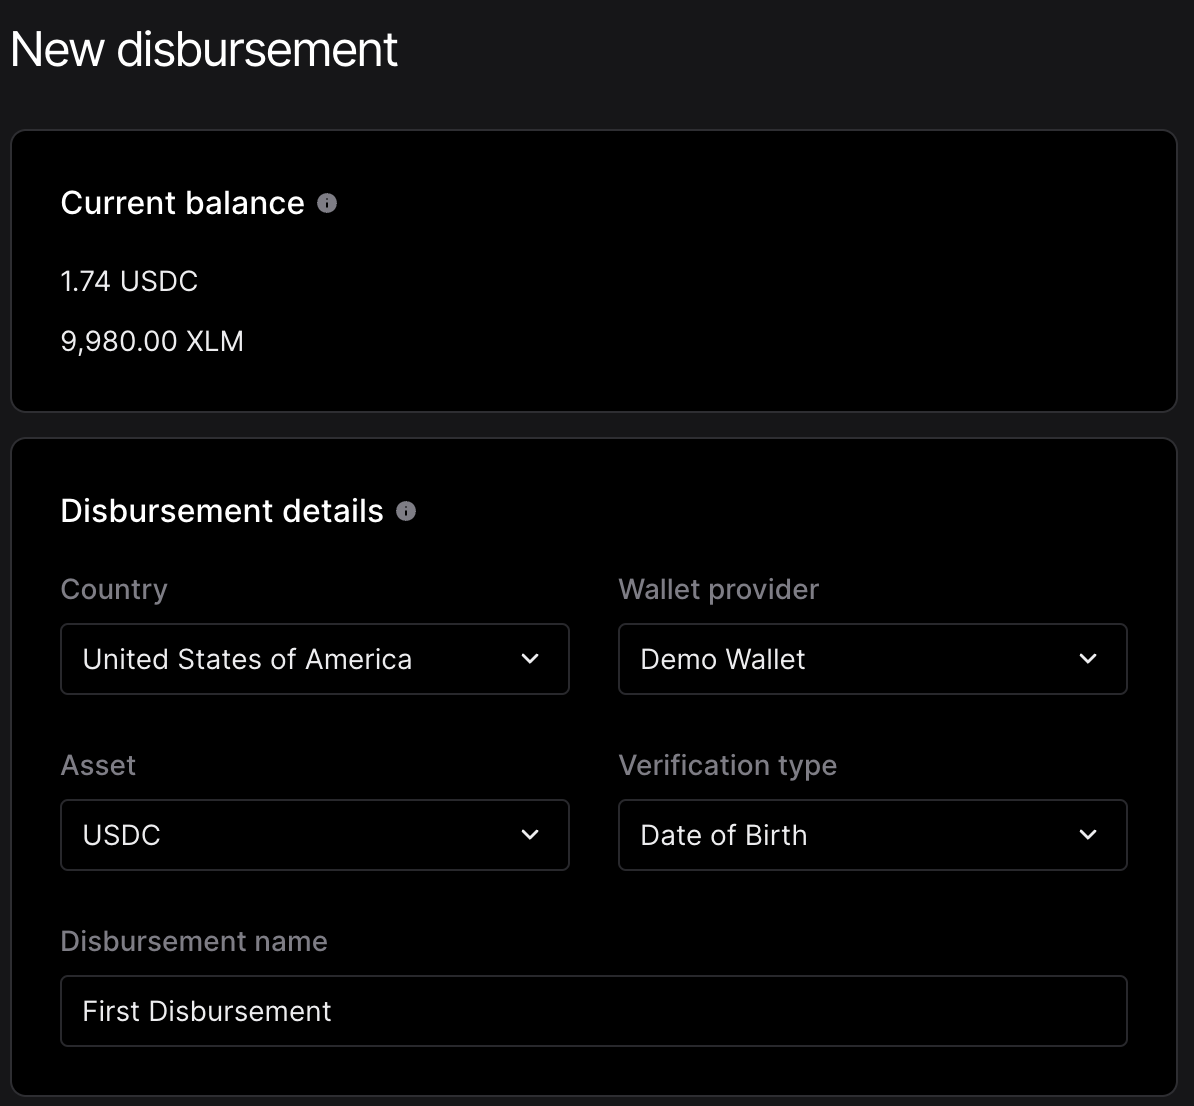
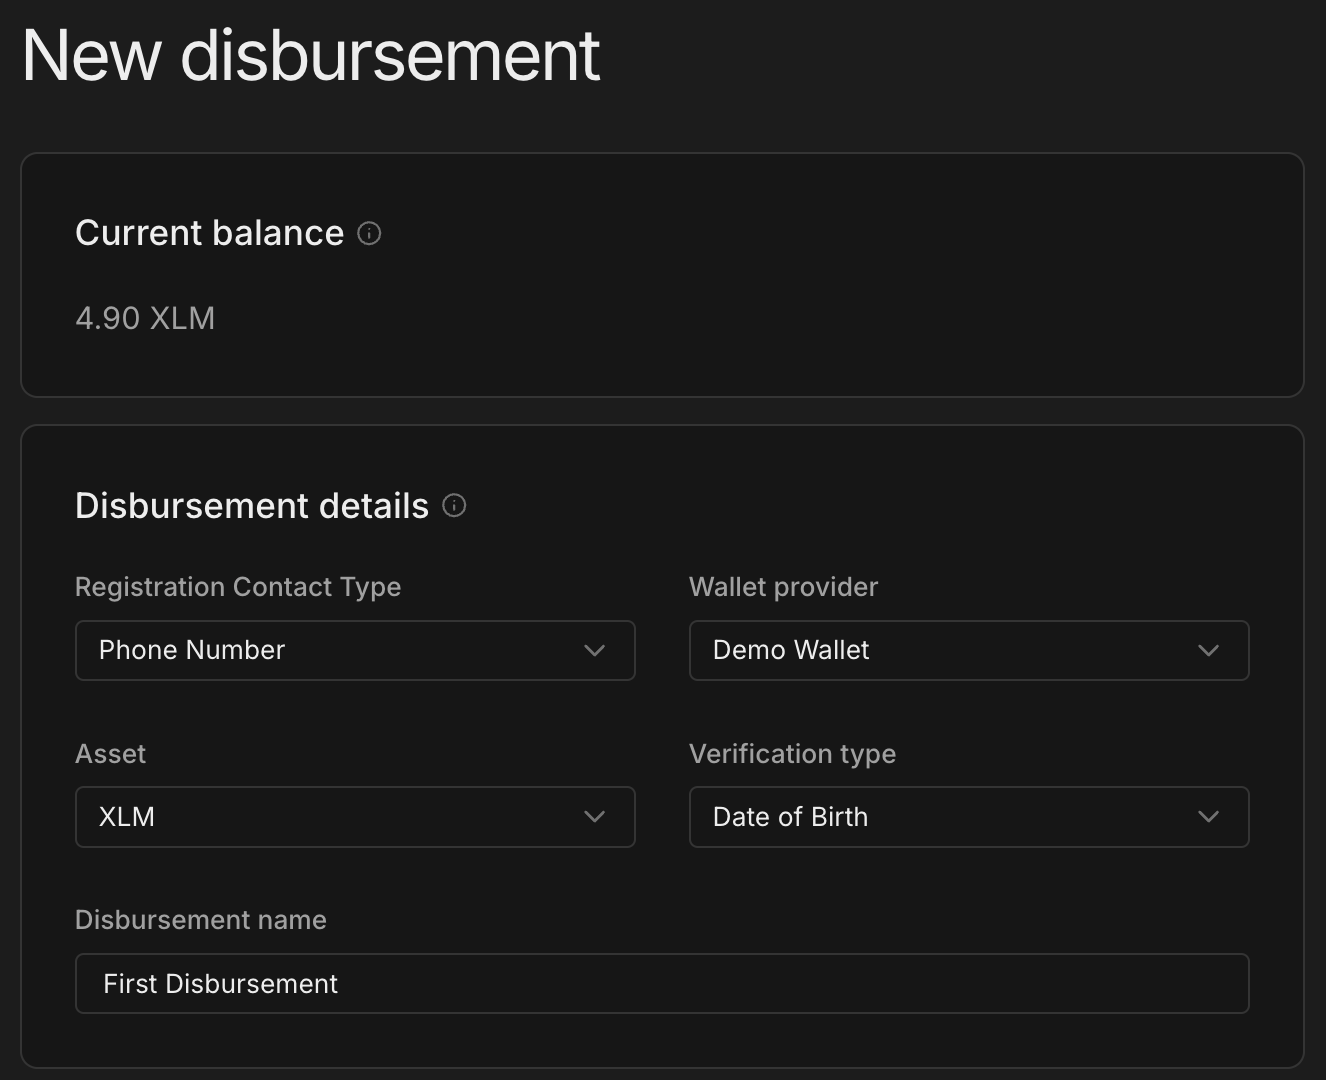
update readme to use XLM as example

diff --git a/dev/README.md b/dev/README.md
@@ -166,32 +166,27 @@ Now deposit the disbursement payment into the digital wallet using the SEP-24 de
    
    <img src="images/demo_wallet.png" alt="Demo Wallet" width="40%">
 
-5. Add `USDC` by clicking `Add from preset assets` link, selecting the `USDC` Checkbox and clicking `Override Home Domain`  to edit the home domain.
-Enter `http://bluecorp.stellar.local:8000` and click the `Confirm` button.
+5. Clicking `Add Home Domain`  to edit the home domain. Enter `http://bluecorp.stellar.local:8000` and click the `Override` button.
 
    <img src="images/demo_wallet1.png" alt="Demo Wallet" width="40%">
 
-6. Click the `Add trustline` link next to the `Select Action` dropdown.
-
-   <img src="images/demo_wallet2.png" alt="Add Trustline" width="40%">
-
-7. In the `USDC` `Select action` dropdown, select `SEP-24 Deposit` and then click the `Start` button.
+6. In the `Select action` dropdown, select `SEP-24 Deposit` and then click the `Start` button.
    
    <img src="images/sep24_deposit1.png" alt="SEP-24 Deposit" width="40%">
 
-8.  In the new window, enter the phone number `+13163955627` from the disbursement CSV payment.
+7.  In the new window, enter the phone number `+13163955627` from the disbursement CSV payment.
     
     <img src="images/sep24_deposit2.png" alt="Enter Phone Number" width="40%">
 
-9. To verify the payment, enter the passcode and date of birth. You can use `000000` passcode or find the actual passcode in the `sdp-api` container logs.
+8. To verify the payment, enter the passcode and date of birth. You can use `000000` passcode or find the actual passcode in the `sdp-api` container logs.
 
     <img src="images/sep24_deposit3.png" alt="Verify Payment" width="40%">
 
-10. The SEP-24 interactive pop-up will confirm the registration was successful. At this point, the SDP can associate the wallet address with the receiver phone number. It should then start processing the transaction to send the payment. If you check the dashboard, the payment should be in a `PENDING` state.
+9. The SEP-24 interactive pop-up will confirm the registration was successful. At this point, the SDP can associate the wallet address with the receiver phone number. It should then start processing the transaction to send the payment. If you check the dashboard, the payment should be in a `PENDING` state.
 
     <img src="images/payment1.png" alt="Pending Payment" width="55%">
 
-11. Once complete, the payment status will be `Success` and your wallet will have the USDC.
+10. Once complete, the payment status will be `Success` and your wallet will have the USDC.
 
     <img src="images/payment2.png" alt="Successful Payment" width="55%">
 
